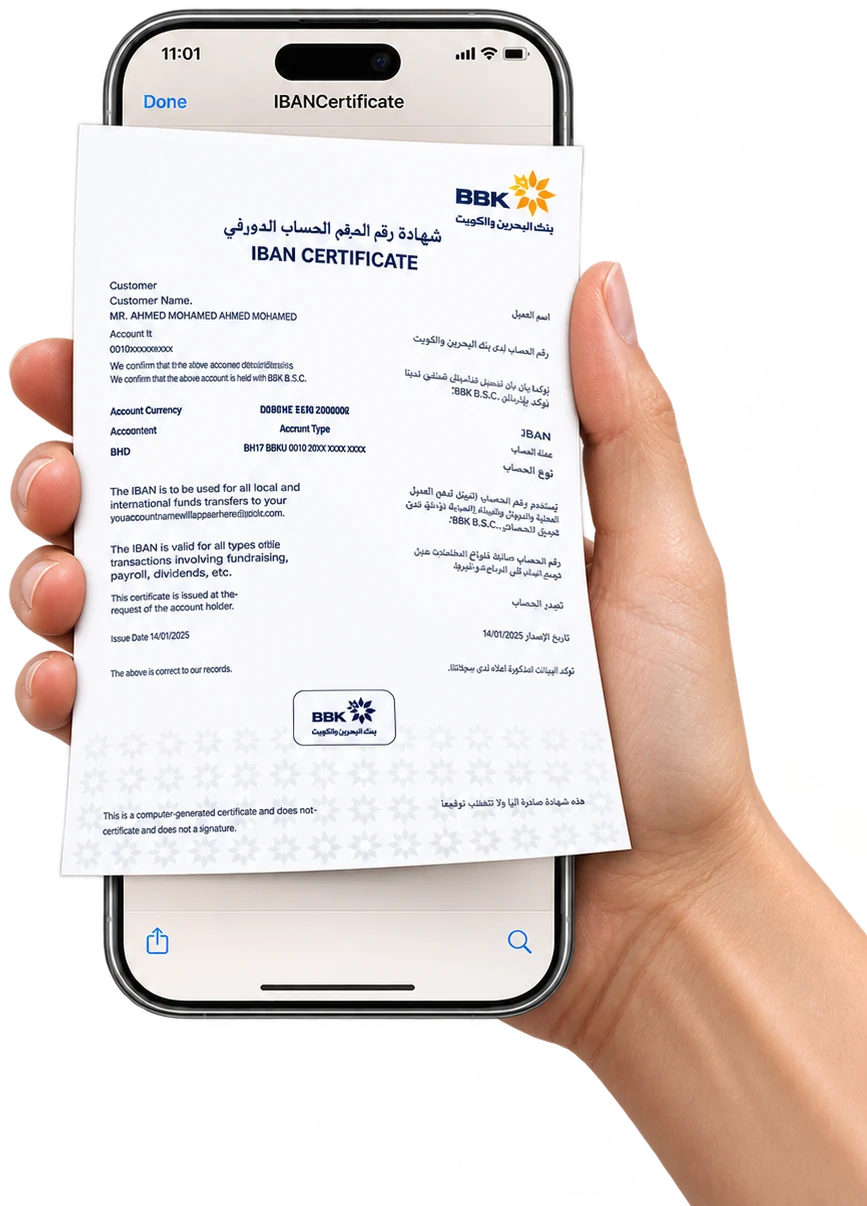
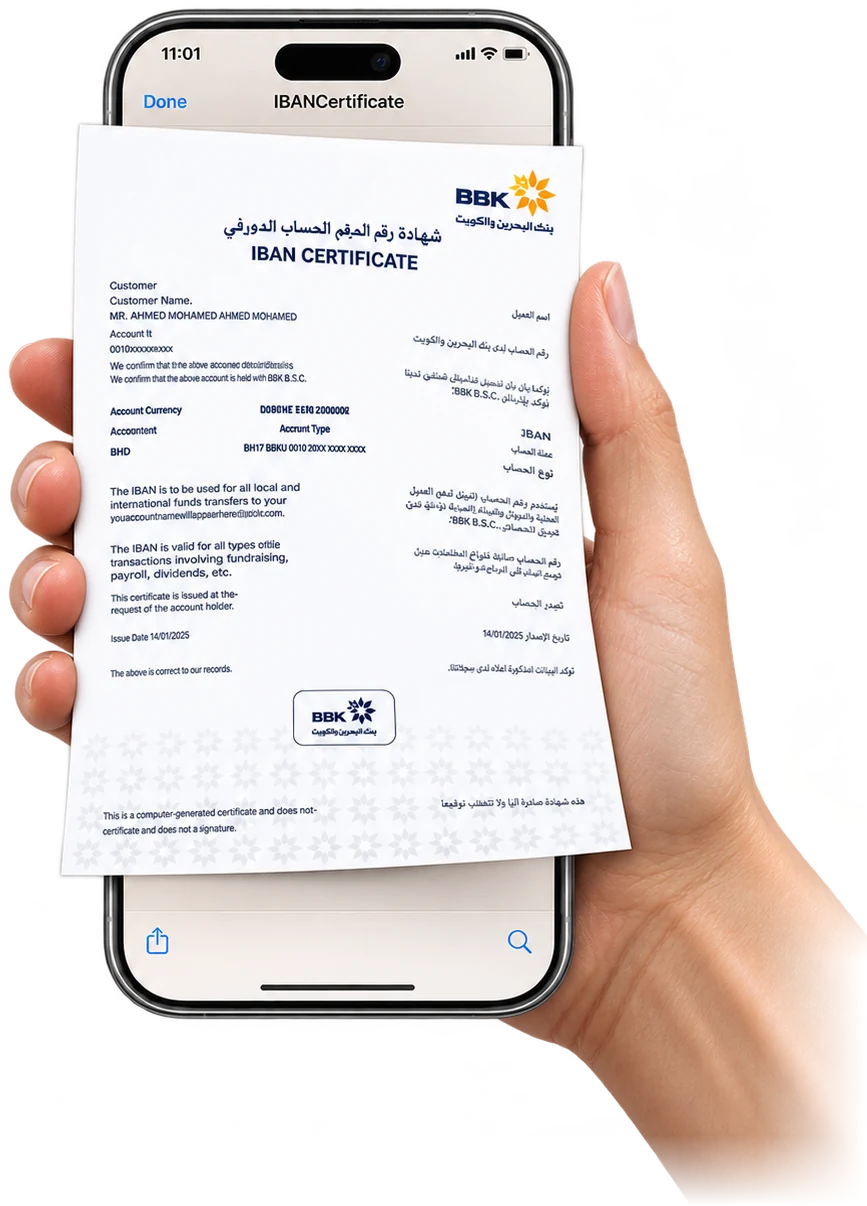
WPS hero: fade cut wrist edge of hand image
Claude-Session: https://claude.ai/code/session_01Q8SfPFzKec2UT1Fop63zbA

Changed region(s): [[0.7474, 0.7056, 1.0, 1.0]]

diff --git a/wps-services.html b/wps-services.html
@@ -7971,7 +7971,7 @@ input, select, textarea {
         </div>
       </div>
       <div class="wpx-dark" aria-hidden="true"><img class="wpx-photo" src="assets/wps-hero-wtc.webp" alt="" decoding="async"></div>
-      <div class="wpx-phone"><img src="assets/wps-hero-iban-phone.webp" alt="Hand holding a phone showing an IBAN certificate" width="867" height="1206" fetchpriority="high" decoding="async"></div>
+      <div class="wpx-phone"><img src="assets/wps-hero-iban-phone.webp?v=2" alt="Hand holding a phone showing an IBAN certificate" width="867" height="1206" fetchpriority="high" decoding="async"></div>
     </section>
 
     <!-- INTRO -->
